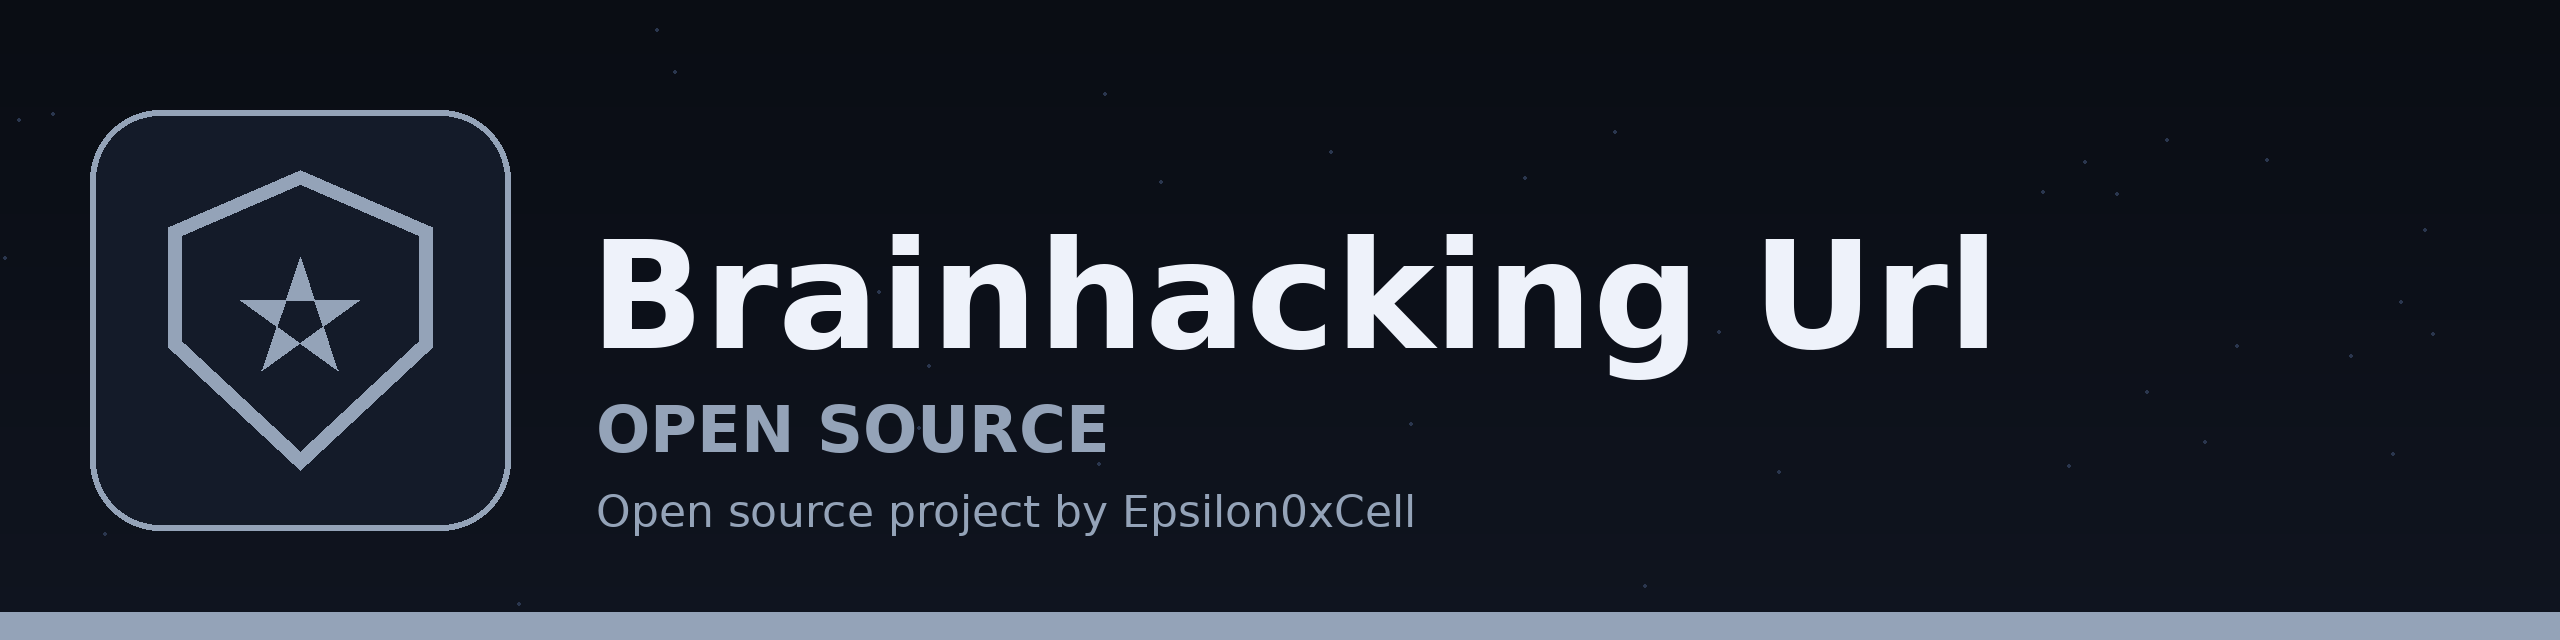
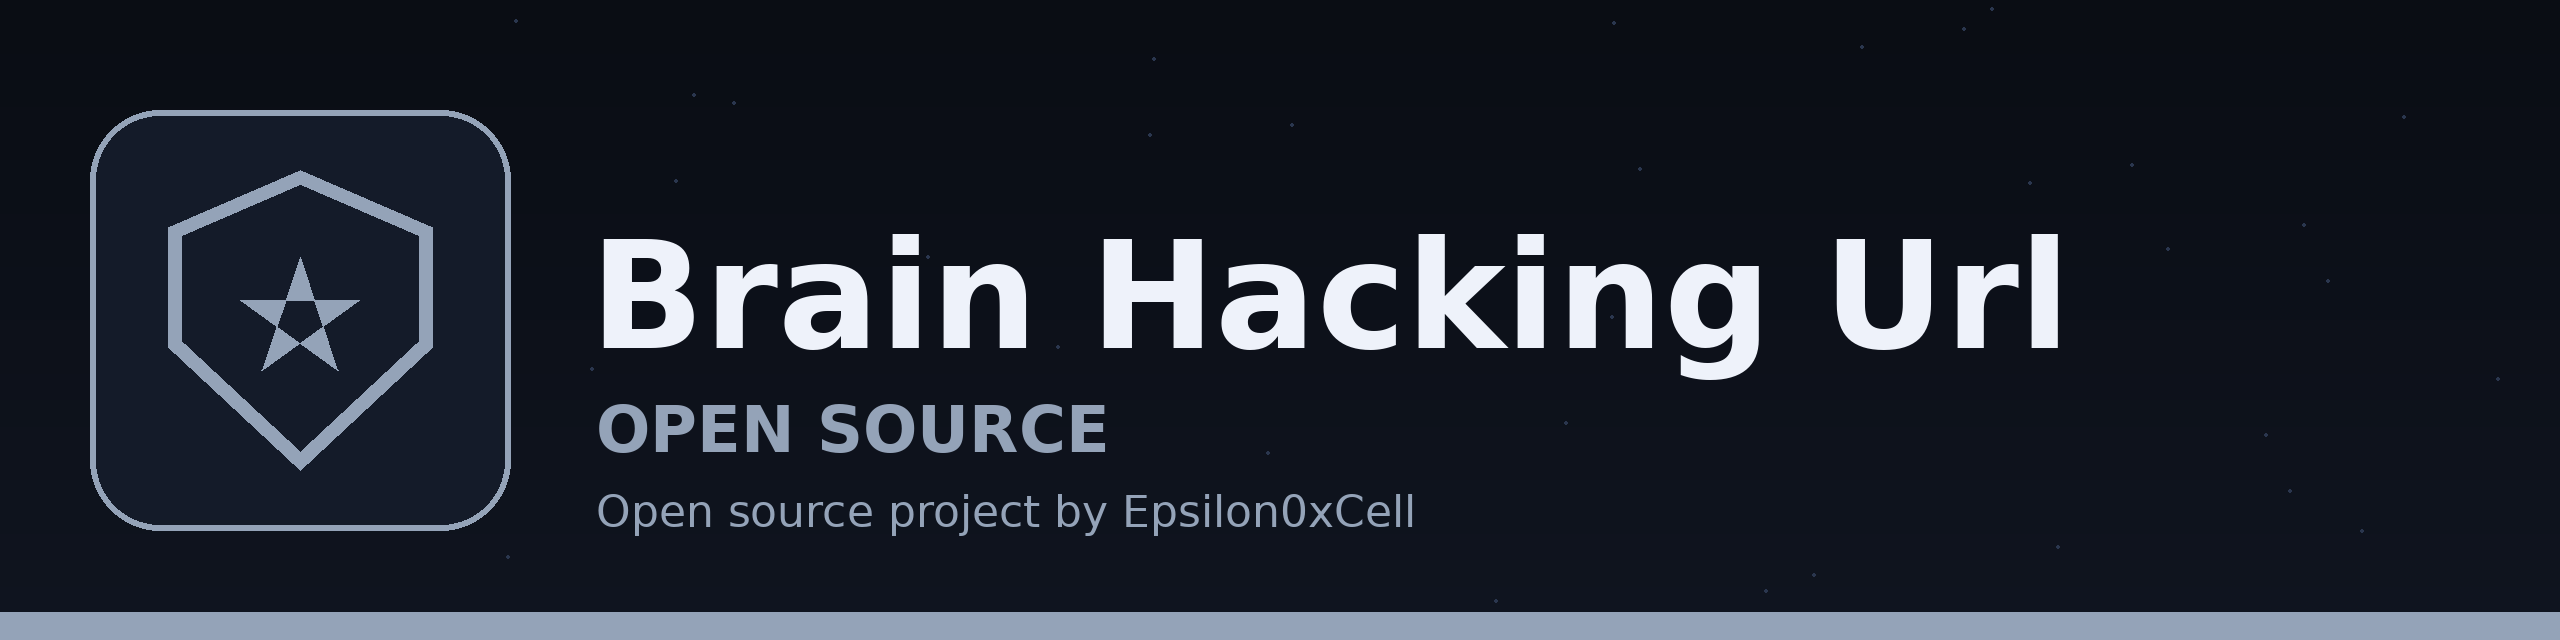
Update name to Brain-Hacking-URL: README title and branding

Changed region(s): [[0.4062, 0.3438, 0.8125, 0.5938]]

diff --git a/README.md b/README.md
@@ -1,6 +1,6 @@
 ![BrainHacking URL banner](banner.png)
 
-# BrainHacking-URL
+# Brain-Hacking-URL
 
 URL that hacks the human mind
 
